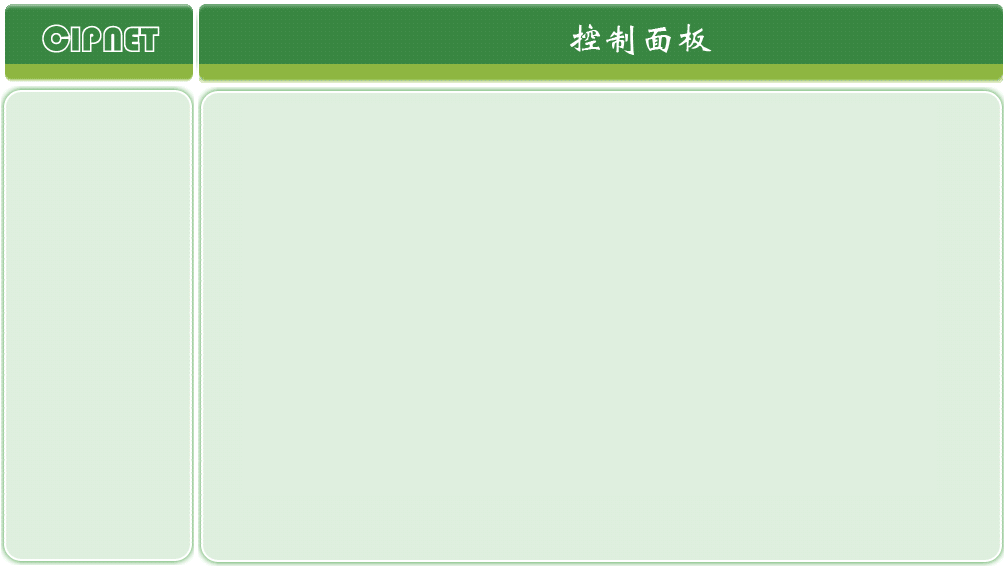
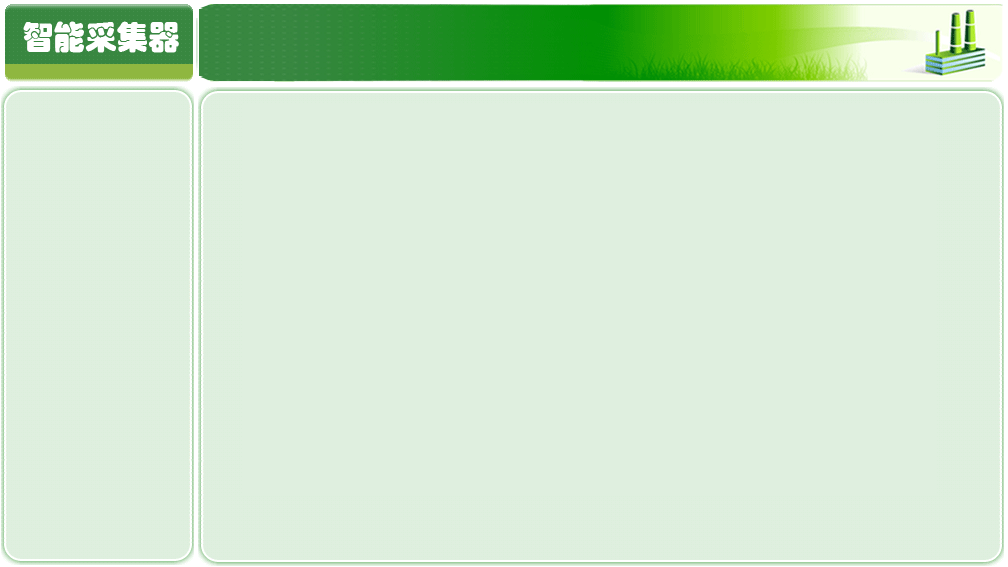
ChongQing fixd

Changed region(s): [[0.1845, 0.0, 1.0, 0.1499], [0.0, 0.03, 0.1845, 0.0899]]

diff --git a/cipnet.css b/cipnet.css
@@ -2,11 +2,18 @@ body.iframe
 {
     margin: 0px;
     border: 0px;
-    background-color: #DEEFDE;
+    background-color: transparent;
 }
 
 body.transparent
 {
+    background:transparent;
+}
+
+body table.center
+{
+    border-style:solid;
+    border:0px;
     background:transparent;
 }
 
@@ -44,18 +51,18 @@ div#Left_Menu
     background-color: transparent;
     position: relative;
     left: 10px;
-    top: 90px;
+    top: 100px;
     float: left;
 }
 div#Right_MainForm
 {
     position: relative;
     top: auto;
-    width: 760px;
-    height: 417px;
+    width: 810px;
+    height: 472px;
     float: left;
-    left: 20px;
-    top: 95px;
+    left: 6px;
+    top: 90px;
     background-color: transparent;
 }
 iframe#mainForm
@@ -109,7 +116,7 @@ table td input[type="text"]
     width: 100%;
 }
 
-table td
+table.nowrap td
 {
     text-align: right;
     white-space: nowrap;

diff --git a/HomePage.html b/HomePage.html
@@ -5,8 +5,8 @@
     <script src="jquery-1.5.1.min.js" type="text/javascript"></script>
 </head>
 <body class="iframe transparent">
-    <form>
-	<img style="padding-left:60px" src=homepage.png />
+    <form style="margin:0px">
+	<img src=homepage.png />
     </form>
 </body>
 </html>
